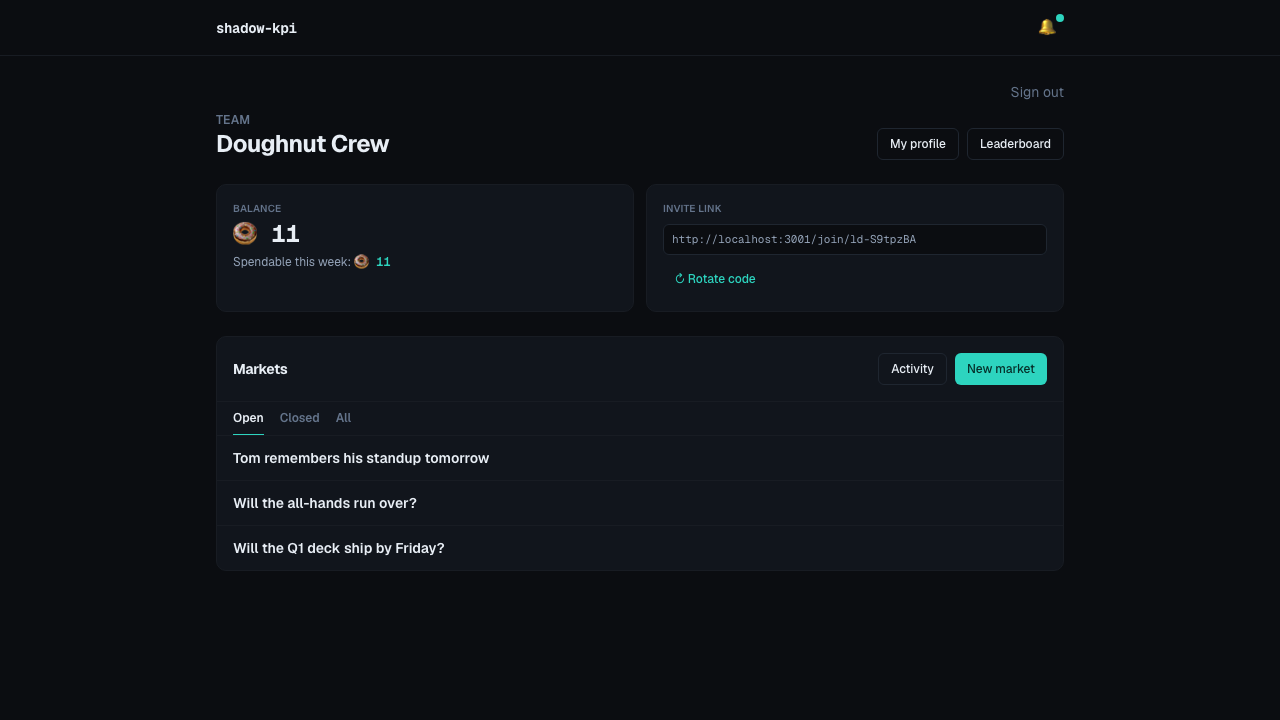
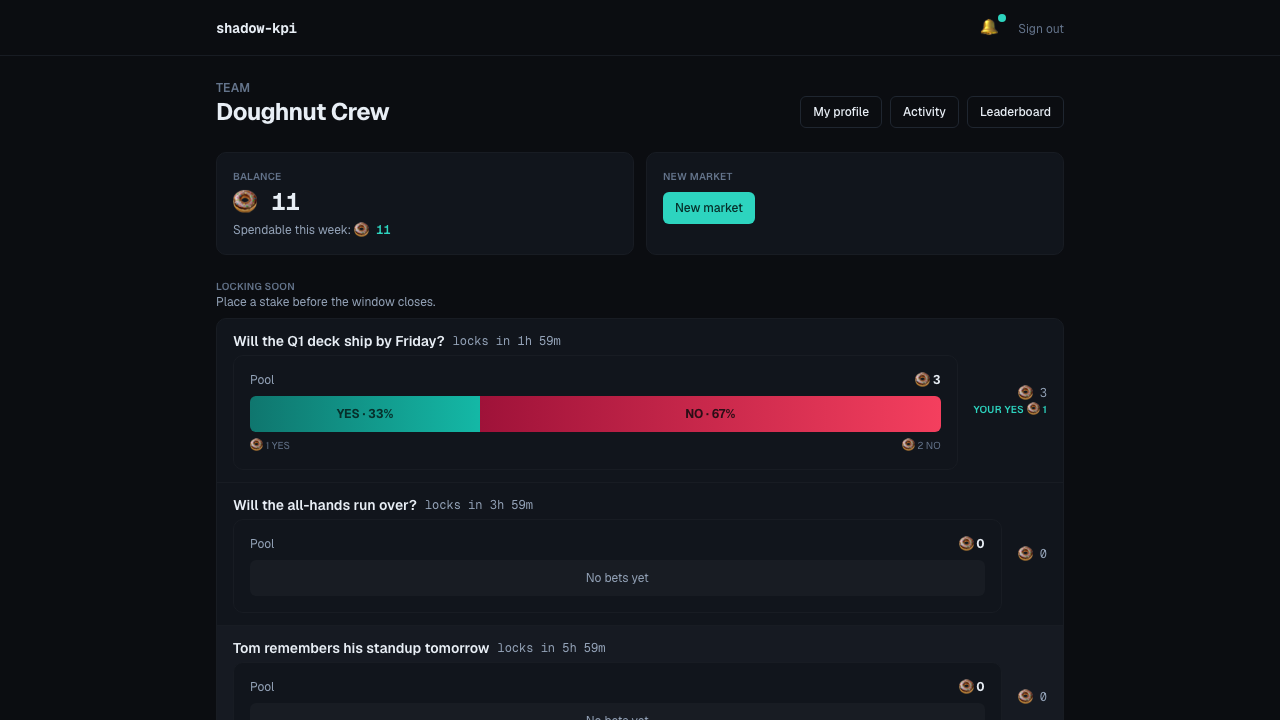
docs: regenerate screenshots for dashboard this-week surface
Fix invite link accessibility (details[open]) and align link label
to "New market" across the screenshot capture spec, social, void,
and full-game-loop e2e specs. All three gauntlet steps pass:
typecheck, vitest (140/140), playwright (4/4).

Curated above the fold
locking, holding, resolved-back
captured in pixels

diff --git a/src/app/(app)/t/[teamId]/page.tsx b/src/app/(app)/t/[teamId]/page.tsx
@@ -111,7 +111,7 @@ export default async function TeamDashboardPage({ params, searchParams }: TeamPa
             </div>
             <div className="mt-2">
               <Button asChild size="sm">
-                <Link href={`/t/${teamId}/markets/new`}>Ask a question</Link>
+                <Link href={`/t/${teamId}/markets/new`}>New market</Link>
               </Button>
             </div>
           </CardContent>
@@ -181,7 +181,7 @@ export default async function TeamDashboardPage({ params, searchParams }: TeamPa
       <Card>
         <CardHeader className="flex-row items-center justify-between flex-wrap gap-2 p-4">
           <CardTitle className="text-sm">All markets</CardTitle>
-          <details className="text-xs">
+          <details open className="text-xs">
             <summary className="cursor-pointer text-fg-dim hover:text-fg select-none">
               ▾ Invite link
             </summary>

diff --git a/tests/e2e/full-game-loop.spec.ts b/tests/e2e/full-game-loop.spec.ts
@@ -41,7 +41,7 @@ test('founder creates market, bettor bets, founder resolves, balance updates', a
   await joiner.waitForURL(/\/t\/[^/]+$/);
 
   await founder.goto(teamUrl);
-  await founder.getByRole('link', { name: 'Ask a question' }).click();
+  await founder.getByRole('link', { name: 'New market' }).click();
   await founder.getByLabel('Title').fill('Will this test pass?');
 
   const toLocal = (offsetSec: number): string => {
